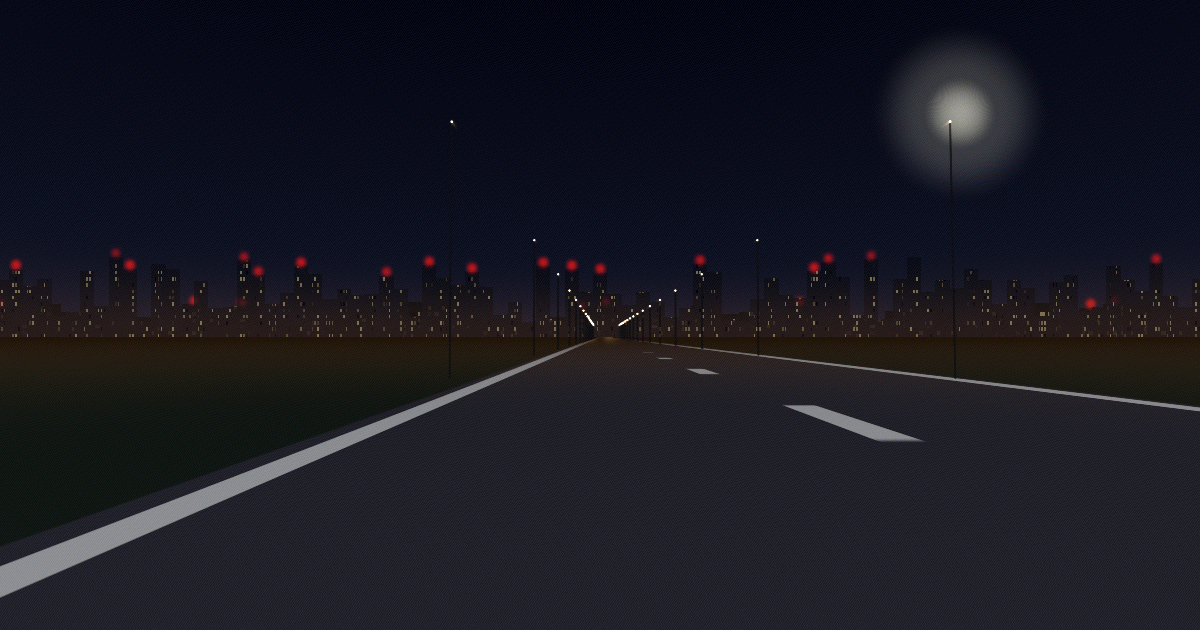
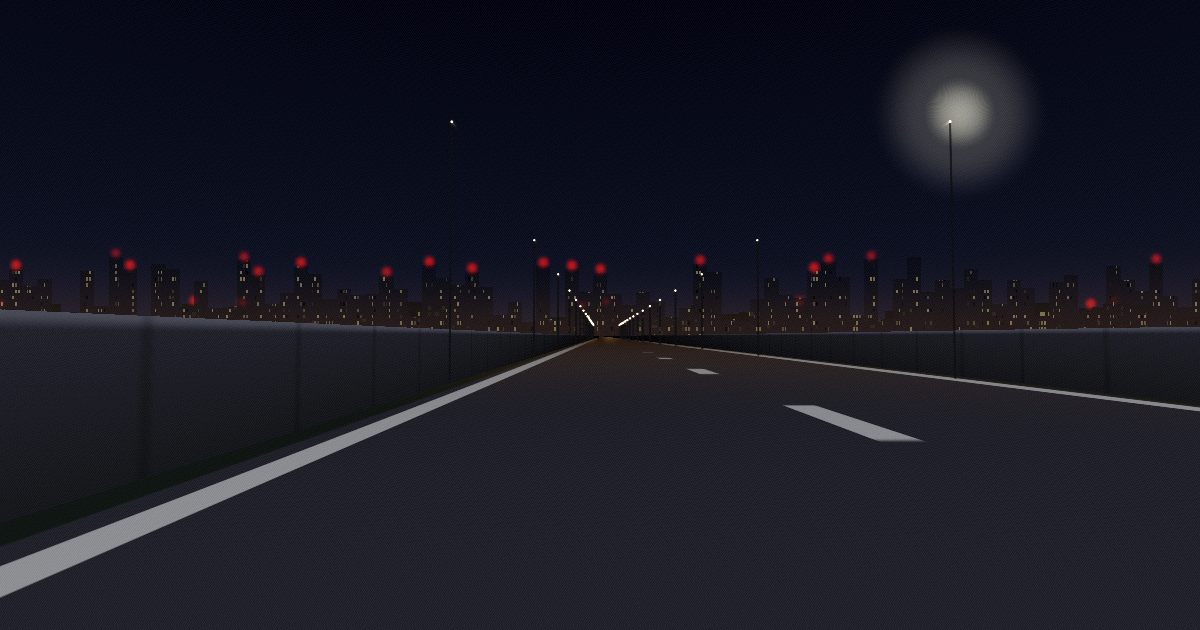
Add roadside walls; remove on-screen brand and tagline text
- Roadside walls: vertical barriers at x = +/-(roadHalfWidth + wallOffset)
  rendered by ray/plane intersection, with road-plane occlusion, fog,
  bottom-darkening, a lighter cap edge, and 3 m panel seams. New params:
  wall (bool), wallHeight, wallOffset, wallCol, wallTopCol; follows the
  road curve.
- Remove the visible 'Panda17TK' nav brand and the 'my storeroom' hero
  heading per request; move the subtle neon flicker onto the menu and
  drop the now-unused brand/subtitle CSS. (Document <title>/OG metadata
  keep the site name.)
- Regenerate OG image with the walls.

https://claude.ai/code/session_014aiygT373NYLjej9iisv7b

diff --git a/js/shaders.js b/js/shaders.js
@@ -135,6 +135,43 @@ void main(){
     // 地平線の暖色かすみ（真の地平線 dir.y≈0 に沿う）
     col += u_hazeCol * exp(-(dir.y * dir.y) * u_hazeSharp) * u_hazeIntensity;
 
+    // ===== 道路脇の塀（左右の垂直な壁。x=±(roadHalfWidth+offset) の平面と交差）=====
+    if (u_wall > 0.5 && abs(dir.x) > 1e-4) {
+        float wallBestT = 1e9;
+        vec3 wallShade = vec3(0.0);
+        bool wallHit = false;
+        float tgRoad = (dir.y < -0.0008) ? (-u_camHeight / dir.y) : 1e9; // 道路面までの距離（手前遮蔽判定用）
+        for (int s = 0; s < 2; s++) {
+            float sgn = (s == 0) ? -1.0 : 1.0;
+            float baseX = sgn * (u_roadHalfWidth + u_wallOffset);
+            float t = (baseX - u_camX) / dir.x;
+            if (t <= 0.0) continue;
+            float zhit = t * dir.z;
+            if (zhit <= 0.0) continue;
+            // 道路のカーブに合わせて壁の X 位置を補正して再交差
+            float wx = baseX + curveAt(zhit);
+            t = (wx - u_camX) / dir.x;
+            if (t <= 0.0) continue;
+            zhit = t * dir.z;
+            if (zhit <= 0.0) continue;
+            float yhit = u_camHeight + t * dir.y;
+            if (yhit < 0.0 || yhit > u_wallHeight) continue;  // 壁の上下からはみ出したら背景
+            if (t >= tgRoad) continue;                        // 道路面が手前にあるなら見えない
+            if (t >= wallBestT) continue;
+            wallBestT = t;
+            wallHit = true;
+            float fog = exp(-zhit * u_fogDensity);
+            float yn = clamp(yhit / u_wallHeight, 0.0, 1.0);
+            vec3 c = mix(u_wallCol * 0.6, u_wallCol, yn);                 // 下ほど暗い
+            c = mix(c, u_wallTopCol, smoothstep(0.90, 1.0, yn));         // 笠木（上端）の明るい縁
+            float fz = fract(zhit / 3.0);                                // 3m ごとのパネル継ぎ目
+            float seam = smoothstep(0.0, 0.05, fz) * (1.0 - smoothstep(0.95, 1.0, fz));
+            c *= mix(0.78, 1.0, seam);
+            wallShade = c * fog;
+        }
+        if (wallHit) { col = wallShade; onRoad = false; }
+    }
+
     // ===== 道路照明灯（ワールド座標を順投影）=====
     float kStart = floor(u_scroll / u_lampSpacing) + 1.0;
     for (int i = 0; i < 32; i++) {

diff --git a/js/config.js b/js/config.js
@@ -43,6 +43,11 @@ NH.PARAMS = [
     { key: "laneEdge",      def: 0.93,  uniform: "u_laneEdge",      type: "float", ui: { min: 0.5, max: 1.0, step: 0.01 } },
     { key: "swayAmount",    def: 0.006, uniform: "u_swayAmount",    type: "float", ui: { min: 0, max: 0.02, step: 0.001 } },  // 進路の緩やかなカーブ（0で直線）
 
+    // --- 道路脇の塀（左右の垂直な壁）---
+    { key: "wall",          def: true,  uniform: "u_wall",          type: "bool",  ui: { bool: true } },
+    { key: "wallHeight",    def: 1.6,   uniform: "u_wallHeight",    type: "float", ui: { min: 0.2, max: 4, step: 0.1 } },   // 塀の高さ(m)
+    { key: "wallOffset",    def: 0.5,   uniform: "u_wallOffset",    type: "float", ui: { min: 0, max: 4, step: 0.1 } },     // 路端から塀までの距離(m)
+
     // --- 道路照明灯 ---
     { key: "lampSpacing",   def: 30.0,  uniform: "u_lampSpacing",   type: "float", ui: { min: 5, max: 80, step: 1 } },
     { key: "lampSide",      def: 2.0,   uniform: "u_lampSide",      type: "float", ui: { min: 0, max: 10, step: 0.25 } },
@@ -89,6 +94,8 @@ NH.PARAMS = [
     { key: "skyHorizon", def: [0.05, 0.06, 0.12],   uniform: "u_skyHorizon", type: "color", ui: { color: true } },
     { key: "ground",     def: [0.05, 0.07, 0.06],   uniform: "u_ground",     type: "color", ui: { color: true } },
     { key: "asphalt",    def: [0.11, 0.11, 0.14],   uniform: "u_asphalt",    type: "color", ui: { color: true } },
+    { key: "wallCol",    def: [0.12, 0.12, 0.15],   uniform: "u_wallCol",    type: "color", ui: { color: true } },
+    { key: "wallTopCol", def: [0.30, 0.31, 0.38],   uniform: "u_wallTopCol", type: "color", ui: { color: true } },
     { key: "laneCol",    def: [0.90, 0.92, 0.97],   uniform: "u_laneCol",    type: "color", ui: { color: true } },
     { key: "lampCol",    def: [1.00, 0.72, 0.36],   uniform: "u_lampCol",    type: "color", ui: { color: true } },
     { key: "hazeCol",    def: [0.22, 0.13, 0.06],   uniform: "u_hazeCol",    type: "color", ui: { color: true } },

diff --git a/style.css b/style.css
@@ -84,26 +84,12 @@ header,
     z-index: 3;
 }
 
-.nav__brand {
-    font-family: var(--display);
-    font-size: 1.15rem;
-    letter-spacing: 1.5px;
-    text-decoration: none;
-    color: #f6feff;
-    /* ネオン管のような多層グロー */
-    text-shadow:
-        0 0 4px #ffffff,
-        0 0 10px var(--accent),
-        0 0 22px var(--accent),
-        0 0 38px var(--accent-2);
-    animation: neonFlicker 7s infinite;
-}
-
 .nav__links {
     display: flex;
     align-items: center;
     gap: 1.5rem;
     list-style: none;
+    animation: neonFlicker 7s infinite;
 }
 
 .nav__links a {
@@ -161,16 +147,6 @@ header,
     justify-content: flex-start;
     text-align: center;
     padding: clamp(4.5rem, 16vh, 11rem) 1.5rem 0;
-}
-
-.hero__subtitle {
-    margin-top: 0;
-    font-size: clamp(1.05rem, 2.6vw, 1.4rem);
-    font-weight: 300;
-    letter-spacing: 0.25em;
-    color: var(--muted);
-    opacity: 0;
-    animation: rise 1s ease 0.2s forwards;
 }
 
 .hero__cta {

diff --git a/index.html b/index.html
@@ -36,8 +36,6 @@
 
     <header>
         <nav class="nav">
-            <a href="index.html" class="nav__brand">Panda17TK</a>
-
             <button class="nav__toggle" aria-label="Toggle navigation" aria-expanded="false" aria-controls="nav-links">
                 <span></span><span></span><span></span>
             </button>
@@ -54,8 +52,6 @@
     </header>
 
     <main class="hero">
-        <h1 class="hero__subtitle">my storeroom</h1>
-
         <div class="hero__cta">
             <a href="https://github.com/Panda17TK?tab=repositories" target="_blank" rel="noopener noreferrer" class="btn btn--primary">View Works</a>
             <a href="https://github.com/Panda17TK" target="_blank" rel="noopener noreferrer" class="btn btn--ghost">Biography</a>
